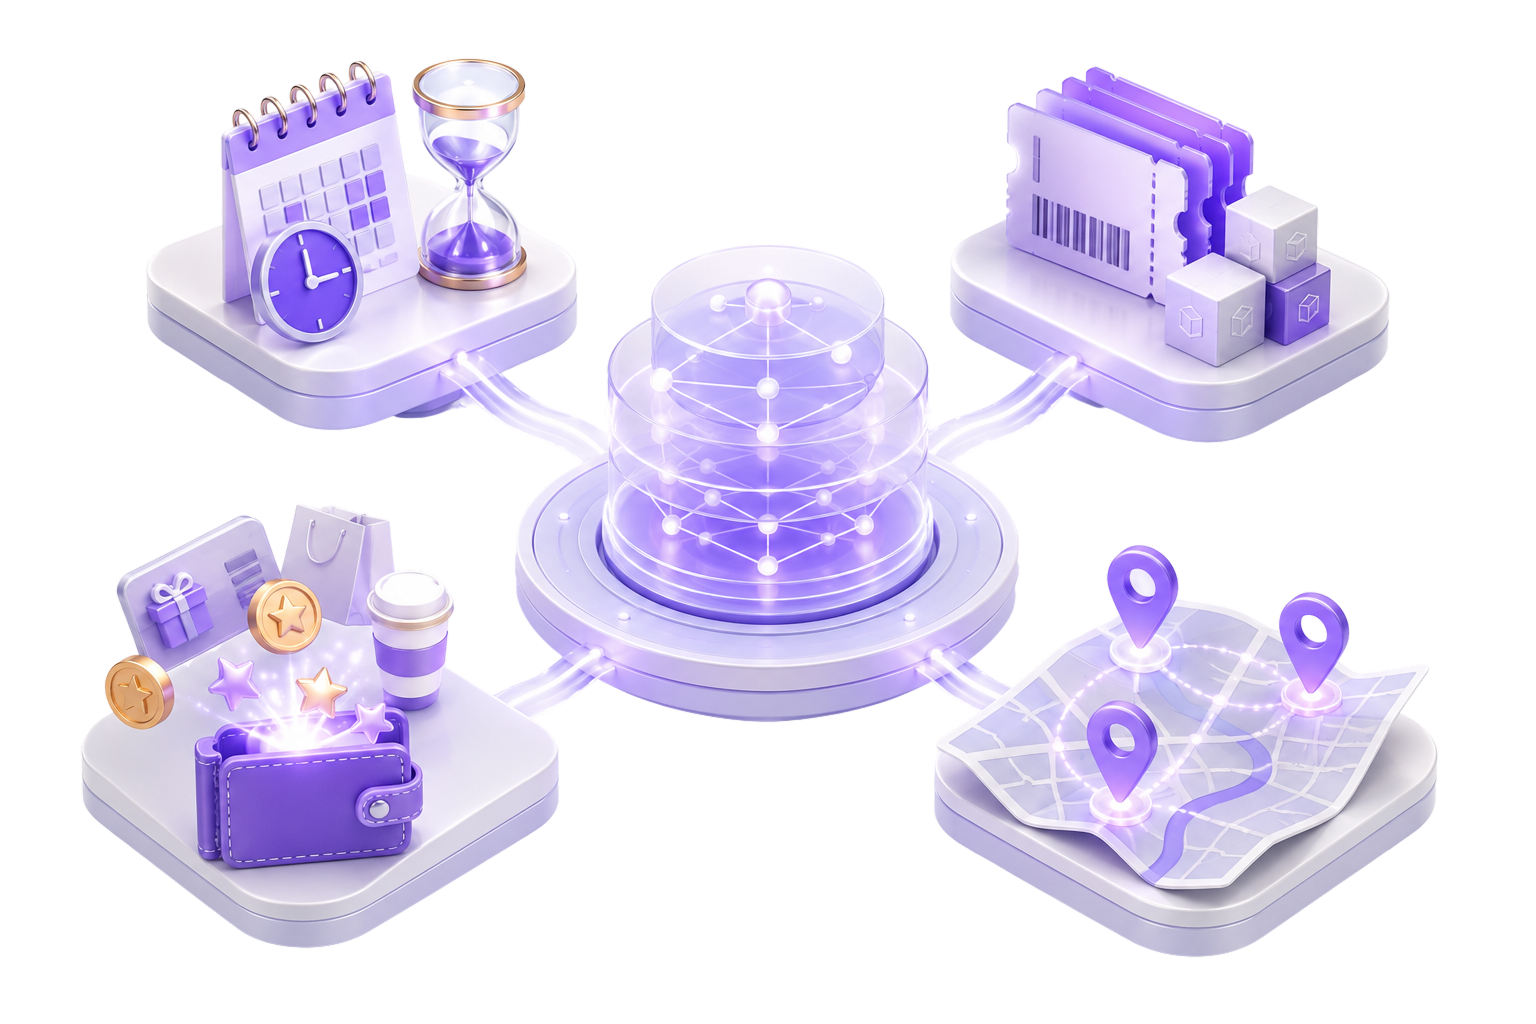
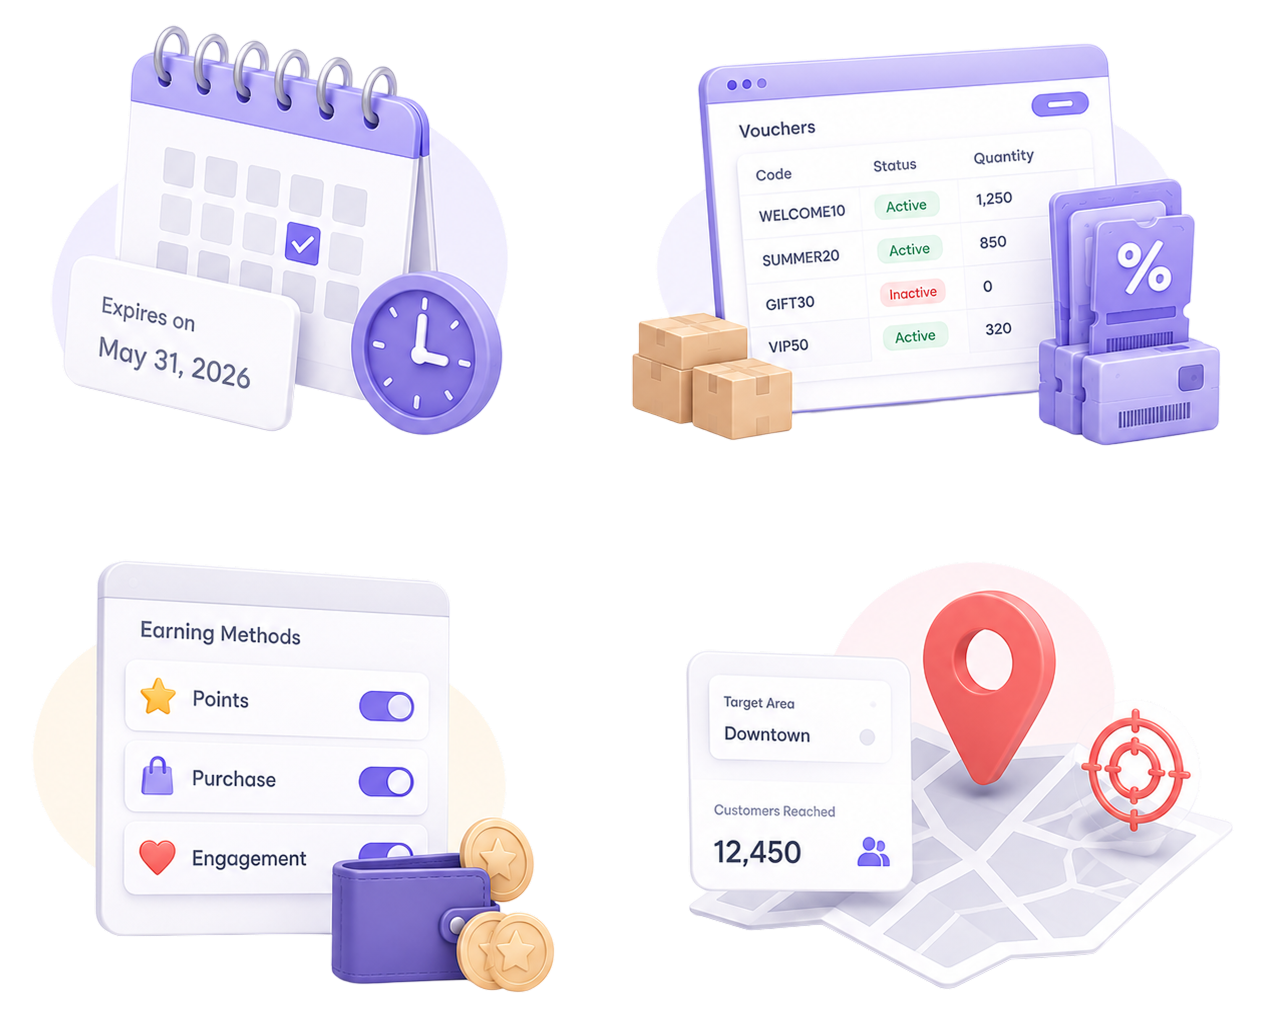
feat(product-security): update pricing texts, customize rules absolute layout and security illustration asset

diff --git a/src/app/pages/Home.tsx b/src/app/pages/Home.tsx
@@ -591,7 +591,13 @@ function HowItWorksSection() {
 function PricingSection() {
   const { ref, visible } = useReveal();
   const MERCHANT_FEATURES = ["Unlimited store locations", "Unlimited staff accounts", "Unlimited customer members", "Ad campaign tool", "Real-time audit ledger", "Dashboard analytics"];
-  const CUSTOMER_FEATURES = ["All loyalty cards in one app", "Instant welcome coupon", "Automatic birthday rewards", "GPS-powered nearby deals", "No third-party ads", "No hidden fees - ever"];
+  const CUSTOMER_FEATURES = [
+    "All loyalty cards in one wallet",
+    "Instant scan-to-collect points",
+    "Easy gift redemptions",
+    "No third-party ads",
+    "Always 100% free for customers"
+  ];
   return (
     <section ref={ref} className="py-16 sm:py-24" style={{ background: "linear-gradient(180deg, var(--loyawin-bg2) 0%, white 100%)" }}>
       <div className="max-w-[1280px] mx-auto px-4 sm:px-6 md:px-12 lg:px-16">
@@ -616,7 +622,7 @@ function PricingSection() {
                 {CUSTOMER_FEATURES.map((f) => (<li key={f} className="flex items-center gap-2.5 text-sm" style={{ color: "var(--loyawin-neutral-700)" }}><Check className="w-4 h-4 flex-shrink-0" style={{ color: "#059669" }} />{f}</li>))}
               </ul>
               <a href="https://app.loyawin.com" target="_blank" rel="noopener noreferrer" className="block w-full text-center font-semibold py-3.5 rounded-full no-underline transition-all hover:translate-y-[-1px] whitespace-nowrap mt-6" style={{ border: "1.5px solid #059669", color: "#059669", fontFamily: "var(--font-body)", background: "white" }}>
-                Download Free App
+                Get Free Wallet
               </a>
             </div>
           </div>

diff --git a/src/app/pages/ProductPage.tsx b/src/app/pages/ProductPage.tsx
@@ -305,16 +305,16 @@ function EarningRulesSection() {
             </div>
           </div>
 
-          {/* Right Column - Illustration Placeholder (to be supplied later) */}
+          {/* Right Column - Illustration */}
           <div
-            className="flex items-center justify-center transition-all duration-700 delay-200 w-full"
+            className="flex items-center justify-center transition-all duration-700 delay-200 w-full relative"
             style={{ opacity: visible ? 1 : 0, transform: visible ? "translateY(0)" : "translateY(32px)" }}
           >
-            <div className="w-full aspect-[4/3] rounded-3xl flex items-center justify-center overflow-hidden relative">
+            <div className="w-full aspect-[4/3] rounded-3xl flex items-center justify-center overflow-visible relative">
               <img
                 src={image_customRules}
                 alt="Custom Earning Rules Illustration"
-                className="w-full h-full object-contain drop-shadow-[0_12px_36px_rgba(118,81,252,0.08)]"
+                className="w-full h-full object-contain drop-shadow-[0_12px_36px_rgba(118,81,252,0.08)] lg:absolute lg:w-[125%] lg:h-[125%] lg:max-w-none lg:-right-16 lg:top-1/2 lg:-translate-y-1/2 z-10"
               />
             </div>
           </div>